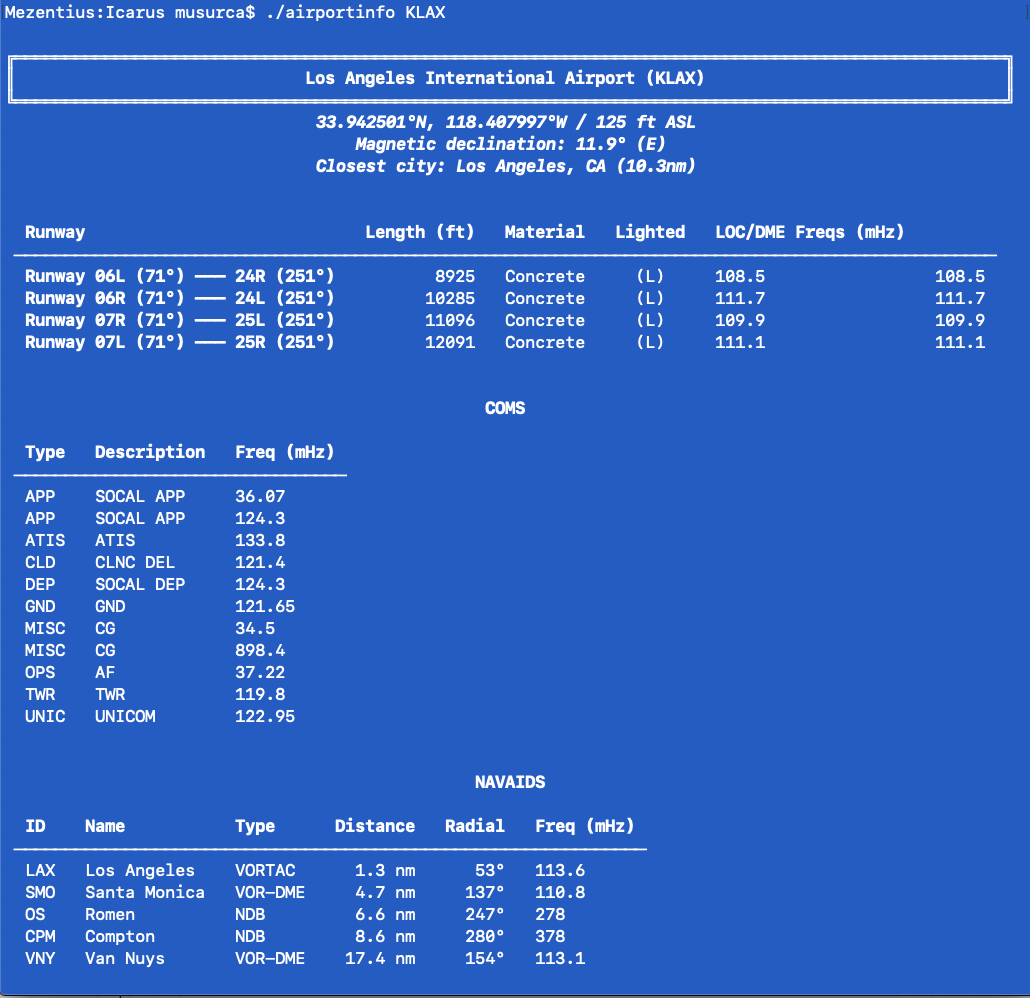
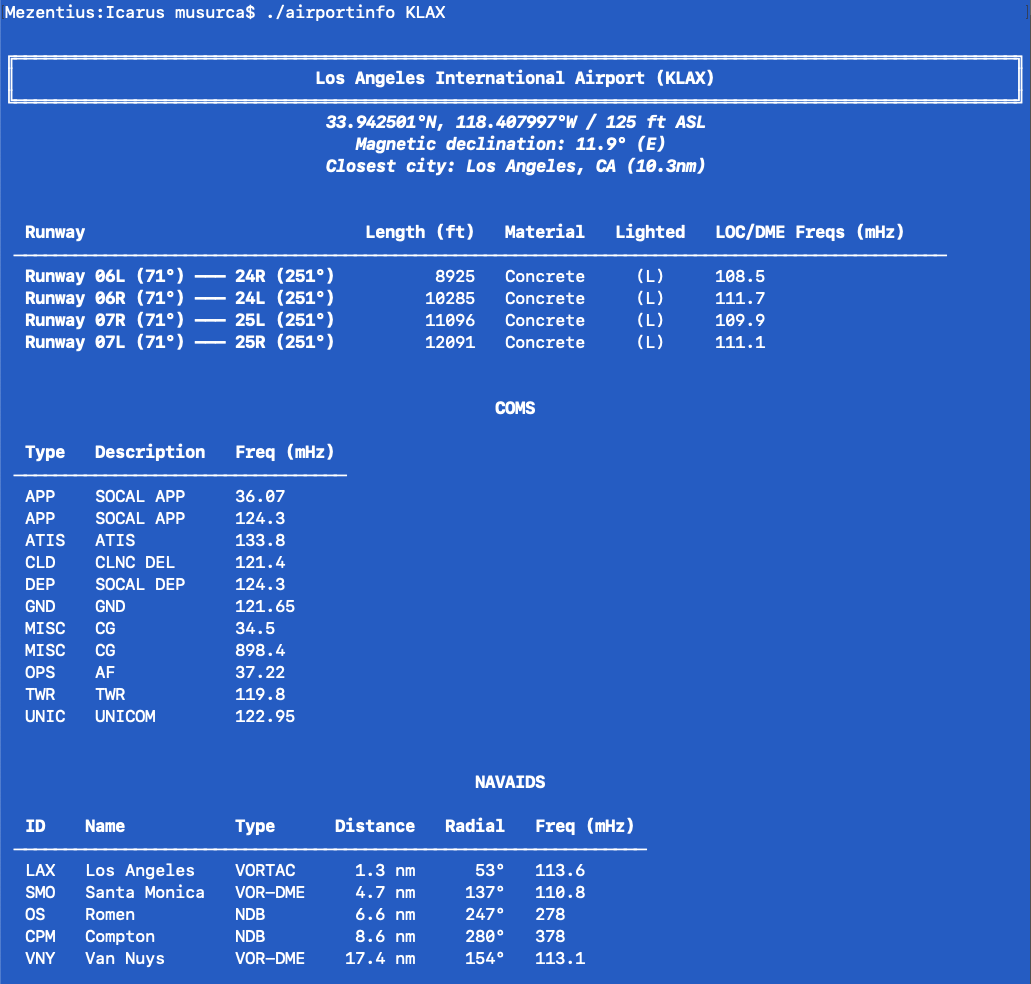
simplify LOC/DME display

diff --git a/airportinfo.py b/airportinfo.py
@@ -266,6 +266,8 @@ for runway in runwayList:
     if len(ilsfreqs) > 0:
         leIls = ilsByRunway(runway['le_ident'])
         heIls = ilsByRunway(runway['he_ident'])
+        if leIls == heIls:
+            heIls = ''
         runwayTable.add_row(rType + " " + rDesc, runway['length_ft'], rmat, rLight, leIls, heIls)
     else:
         runwayTable.add_row(rType + " " + rDesc, runway['length_ft'], rmat, rLight)
